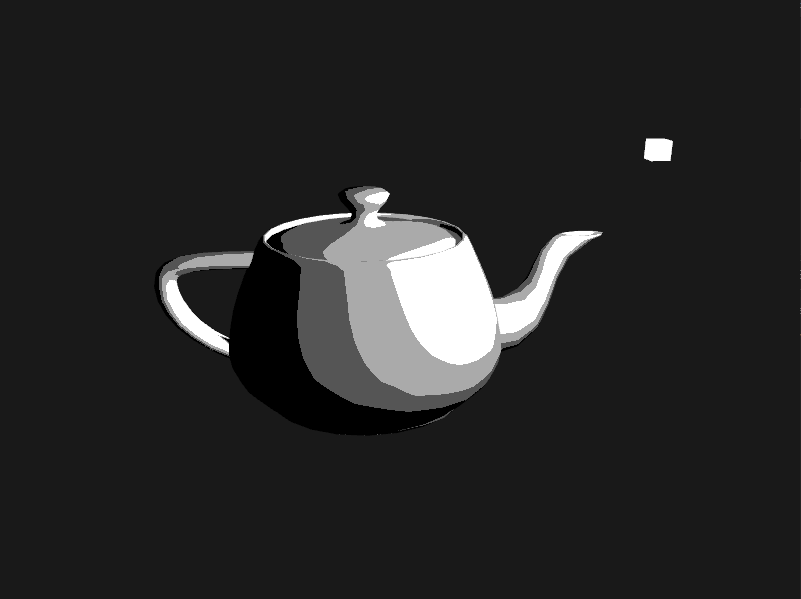
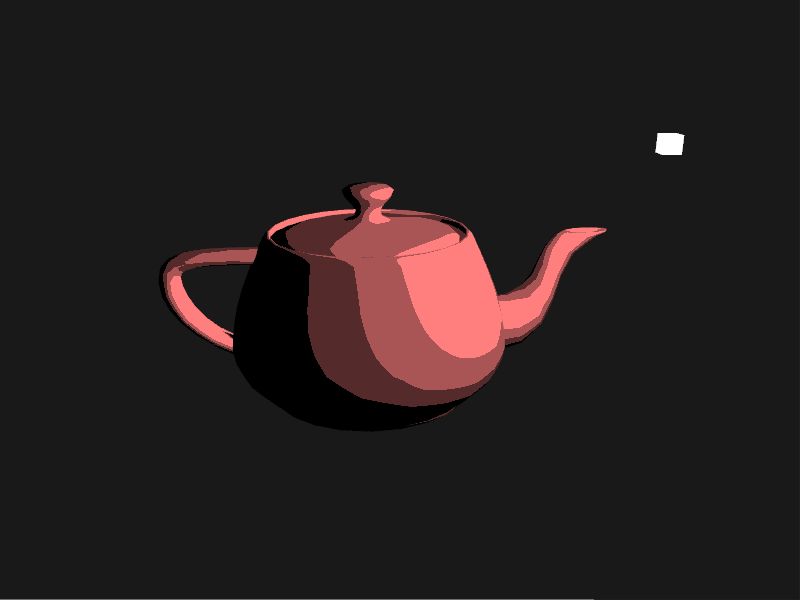
Changed Toon Shading object color.

diff --git a/main.cpp b/main.cpp
@@ -344,6 +344,7 @@ int main(int argc, char** argv)
 			toonShader.setVec3("lightPos", lightPos);
 			toonShader.setVec3("viewPos", camera.Position);
 			toonShader.setVec3("lightColor", 1.0f, 1.0f, 1.0f);
+			toonShader.setVec3("objectColor", 1.0f, 0.5f, 0.5f);
 			toonShader.setBool("texturesToggle", texturesToggle);
 			// render model
 			modelToRender->Draw(toonShader);
